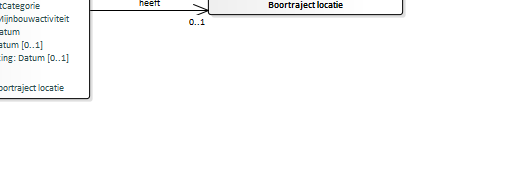
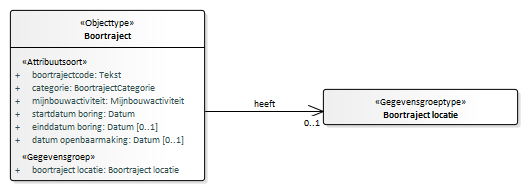
Conceptualmodel-MijnbouwconstructiesEPC-conceptueel-0.1versie27juli2020-1-20200727-20201202-084744

Changed region(s): [[0.0, 0.0, 1.0, 0.9686]]

diff --git a/data/EPC-cat.msword.html b/data/EPC-cat.msword.html
@@ -15,7 +15,7 @@
    <body>
       <p>Conceptual model/Mijnbouwconstructies (EPC) - conceptueel/20200727</p>
       <p>Imvertor: 1.61.3</p>
-      <p>Model release: Conceptualmodel-MijnbouwconstructiesEPC-conceptueel-0.1versie27juli2020-1-20200727-20201130-171842</p>
+      <p>Model release: Conceptualmodel-MijnbouwconstructiesEPC-conceptueel-0.1versie27juli2020-1-20200727-20201202-084744</p>
       <hr>
       <section>
          <h1>Artikel 1 Definitie van registratieobject, entiteiten en attributen</h1>
@@ -517,7 +517,7 @@
                                     In het geval de vergunninghouder een consortium is, dan is de penvoerder van  het
                                     consortium de eigenaar van het boorgat.<br clear="none">
                                     In het geval het boorgat een alleenstaand geabandonneerd boorgat is, dan is de organisatie
-                                    die eigenaar was ten tijde van de abandonneering de (laatste) eigenaar van het boorgat.
+                                    die eigenaar was ten tijde van de abandonneering de (laatste) eigenaar van het boorgat.<br clear="none">
                                     In het geval het boorgat behoort tot een productieinstallatie dan in de eigenaar aan
                                     verandering onderhevig totdat de gehele productieinstallatie is geabandonneerd, dan
                                     is de organisatie die eigenaar was ten tijde van de abandonneering van de productieinstallatie
@@ -2256,7 +2256,7 @@
                      </section>
                </section><a class="anchor" id="graph_EAID_4E52826A_2252_4994_8AD0_986AD45E18C9"></a><a class="anchor" id="global_class_Model_Boortraject"></a><section id="global_class_Model_Boortraject">
                   <h3>   Boortraject</h3>
-                  <div class="imageinfo "><img src="Images/EAID_BA6E007B_5918_48b8_B6CE_00666B2D4C8C.png" usemap="#imagemap-EAID_BA6E007B_5918_48b8_B6CE_00666B2D4C8C" alt="Diagram "><map name="imagemap-EAID_BA6E007B_5918_48b8_B6CE_00666B2D4C8C"><area shape="rect" alt="Boortraject locatie" coords="208,-21,403,15" href="#graph_EAID_410F626E_1E87_47b5_AB5A_014C2D41B9B7"><area shape="rect" alt="Boortraject" coords="-105,-72,90,99" href="#graph_EAID_4E52826A_2252_4994_8AD0_986AD45E18C9"></map><p><b></b></p>
+                  <div class="imageinfo "><img src="Images/EAID_BA6E007B_5918_48b8_B6CE_00666B2D4C8C.png" usemap="#imagemap-EAID_BA6E007B_5918_48b8_B6CE_00666B2D4C8C" alt="Diagram "><map name="imagemap-EAID_BA6E007B_5918_48b8_B6CE_00666B2D4C8C"><area shape="rect" alt="Boortraject locatie" coords="323,89,518,125" href="#graph_EAID_410F626E_1E87_47b5_AB5A_014C2D41B9B7"><area shape="rect" alt="Boortraject" coords="10,10,205,181" href="#graph_EAID_4E52826A_2252_4994_8AD0_986AD45E18C9"></map><p><b></b></p>
                   </div>
                   <table style="width: 100%;">
                      <colgroup style="width: 30%;"></colgroup>
